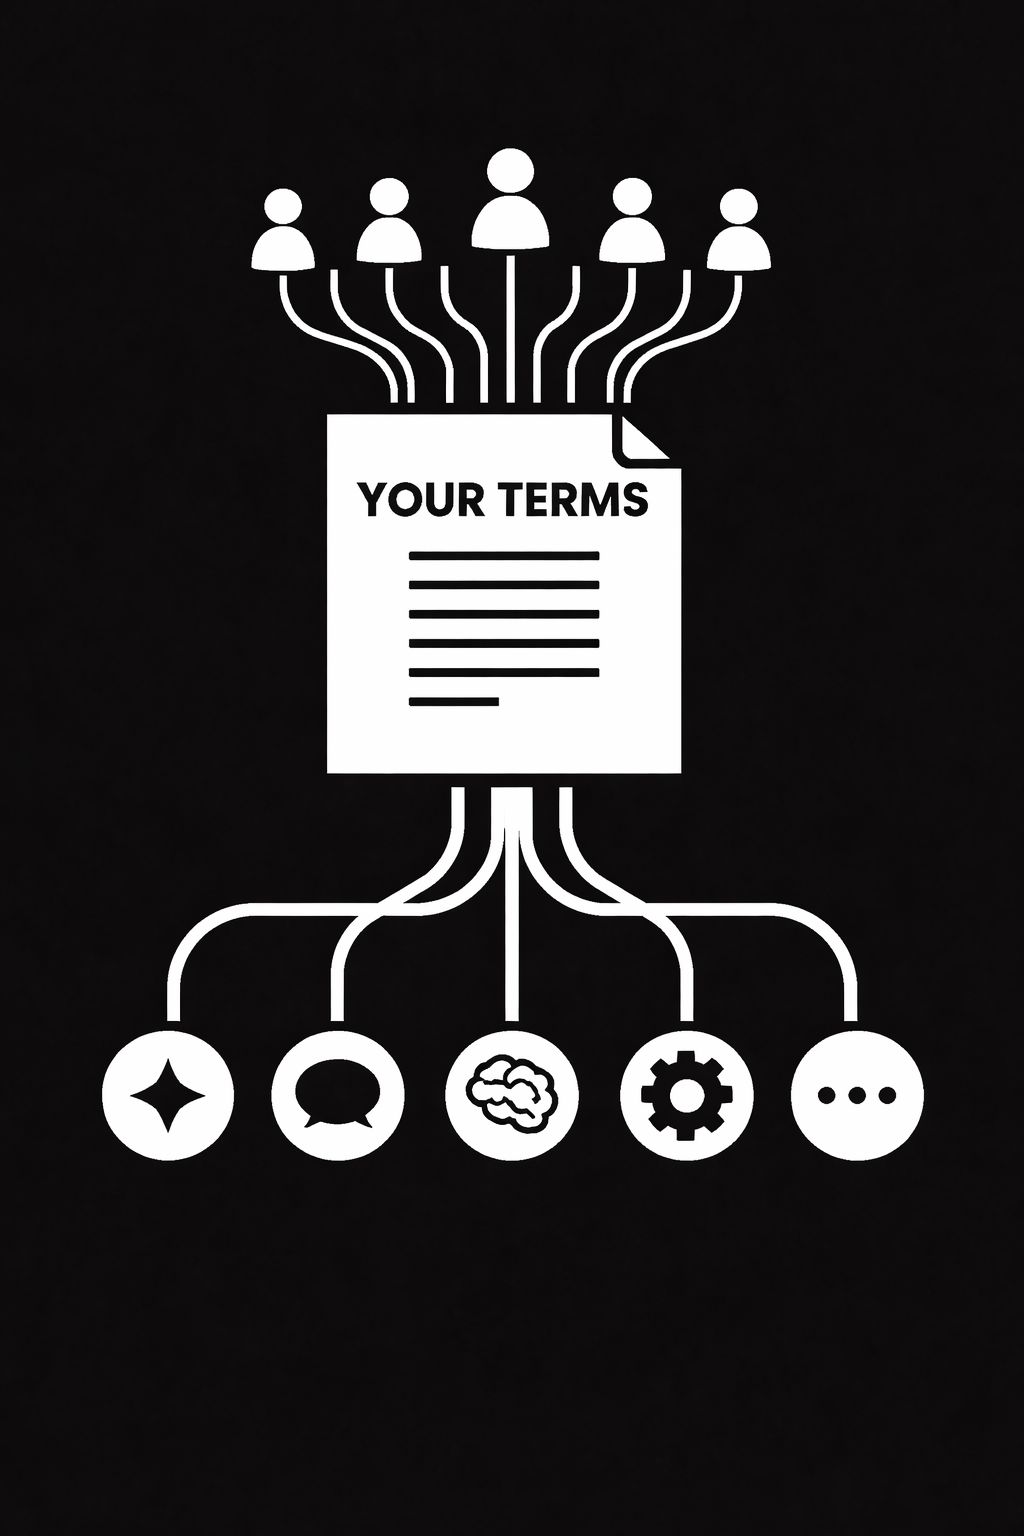
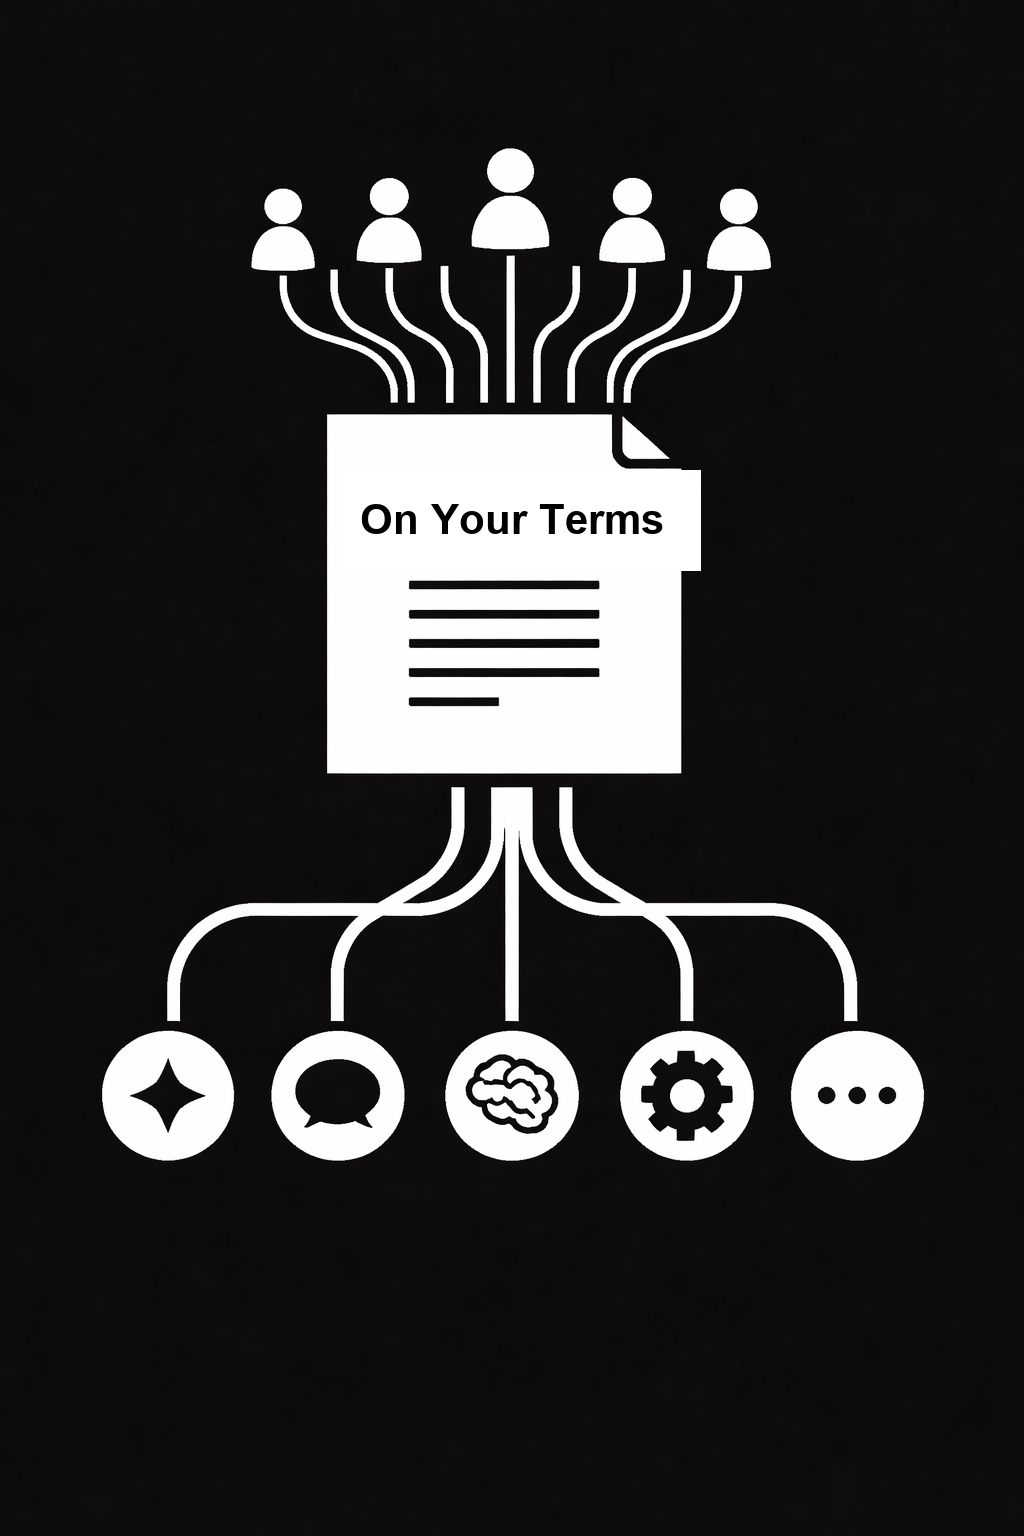
Add updated concept image to about page

Changed region(s): [[0.3438, 0.2812, 0.6875, 0.375]]

diff --git a/about.html b/about.html
@@ -203,6 +203,9 @@
 
     <!-- INTRO -->
     <section>
+        <div style="text-align:center; margin-bottom:2rem;">
+            <img src="/concept.png" alt="On Your Terms — people feed into the terms, terms feed into every AI" style="max-width:360px; width:100%;">
+        </div>
         <p style="color:#ccc;">Right now, <em>onyourterms.ai</em> (OYTA) is just one person sharing a file of their AI terms. It's not a company. It's not a community. It's a test: <strong>do people want to write their own rules for AI, and share them with each other so everyone's terms get better?</strong></p>
 
         <p>The file is a template. You download it, it becomes yours. Change it, adapt it, or leave it as it is. Upload it to whatever AI you use and from that moment, your AI reads your terms before every conversation. Switch AI tomorrow? Take your file with you. It works on any of them.</p>
